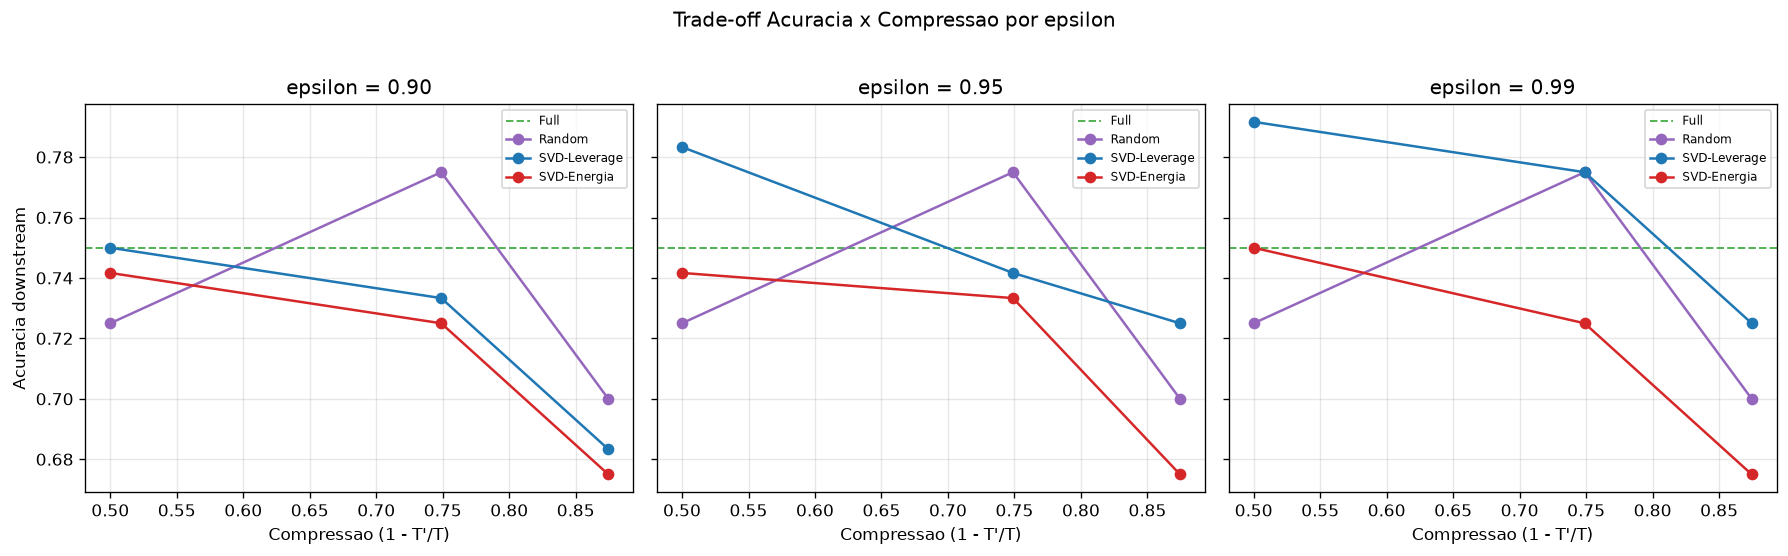
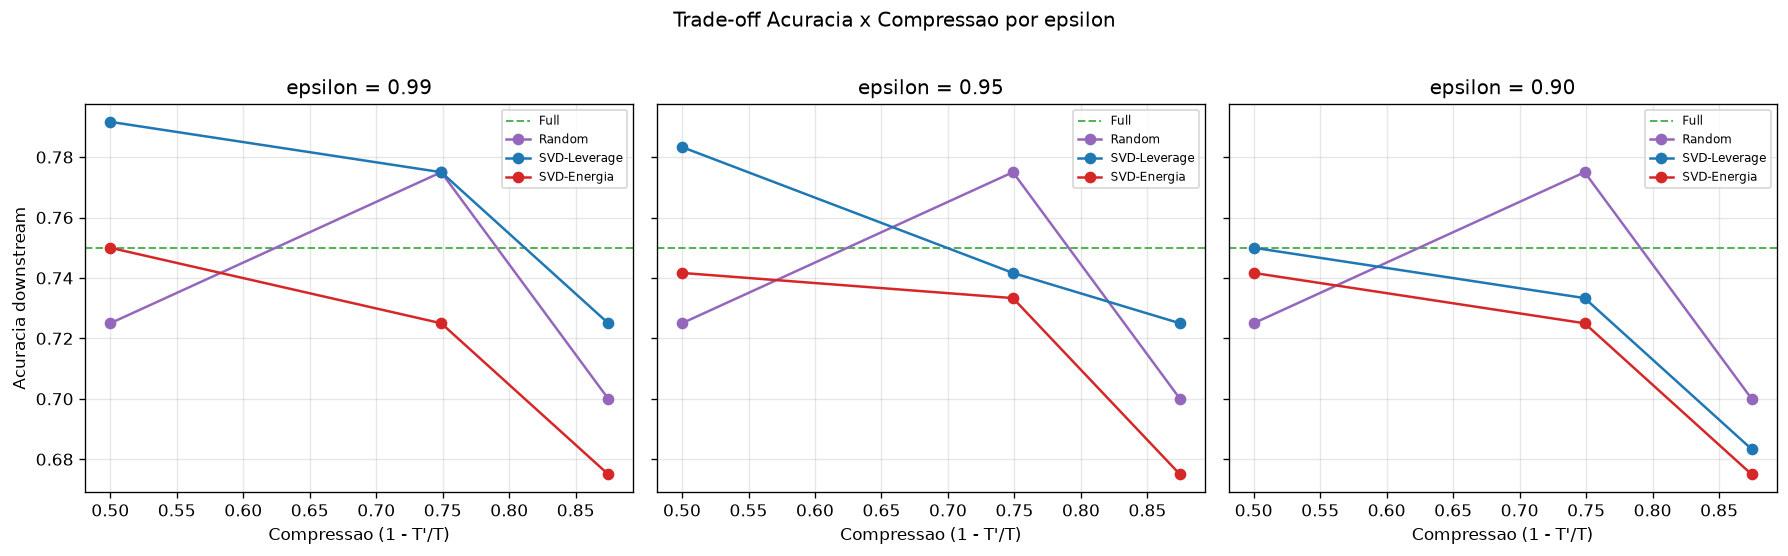
fix: order trade-off figure panels by descending epsilon
Sort epsilon facets as 0.99, 0.95, 0.90 in the accuracy-compression plot.

diff --git a/src/visualizacao.py b/src/visualizacao.py
@@ -88,7 +88,7 @@ def salvar_grafico_epsilon_k(amostras, epsilons, caminho):
 
 
 def salvar_grafico_tradeoff(agregado, caminho, epsilons=None):
-    epsilons = epsilons or EPSILONS
+    epsilons = sorted(epsilons or EPSILONS, reverse=True)
     n_eps = len(epsilons)
     fig, axes = plt.subplots(1, n_eps, figsize=(5 * n_eps, 4.5), sharey=True)
     if n_eps == 1: